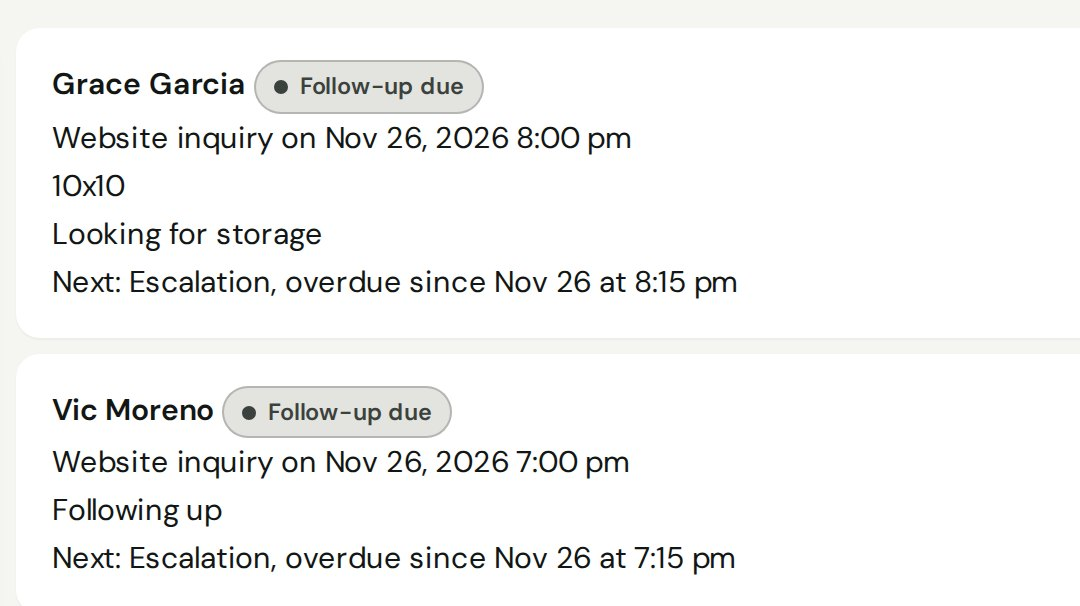
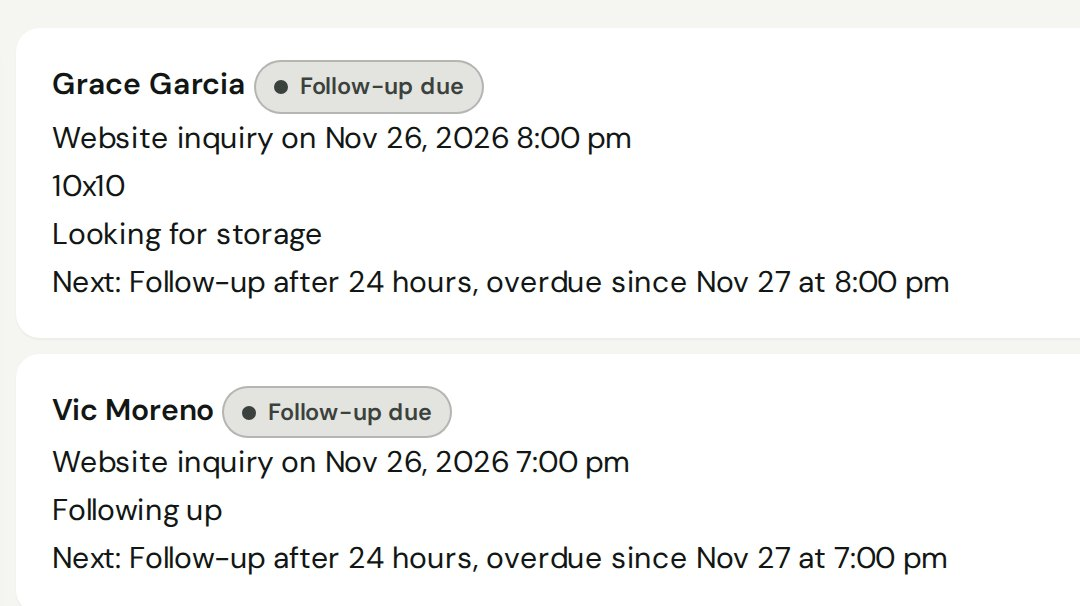
Add a research sign-in key and fix the sign-in card lines (#156)
- With DESK_RESEARCH_KEY set, /sign-in/pass/<key> starts the same session the sign-in form starts, then goes to Home. It is limited per address, like the form. Unset, or with a wrong key, the address answers 404. The form's last step shares the session code with it.
- Sign-in card: the heading, the line under it and the closing line are centred beside the centred note; the fields stay left. The card is wider, so each line fits on one line from laptop width up. The bot check gets a field's gap and the fields' width. On a phone the card no longer sits 8 px off centre.
- Overview: "Tilden can correct a charge, not just flag it." sits on one line instead of splitting in the middle. In "When it's your call", the slip beside Tilden holds its sentence on one line, and the cards take the width the left column left empty.
- Overview screens retaken after the stylesheet changes.

Why

A research browser cannot use the sign-in form: it hides any page that holds a filled-in password, and Cloudflare's check refuses it. The sign-in card and two Overview lines left half their width empty or mixed left and centred text.

Changed region(s): [[0.1222, 0.8911, 0.8861, 0.9505], [0.1222, 0.4455, 0.8861, 0.505]]

diff --git a/desk/static/staddle.css b/desk/static/staddle.css
@@ -1740,7 +1740,7 @@ body.ov.pub .ov-shot img { border-radius: 10px; display: block; width: 100%; hei
 
 /* Sign-in: one white card on the paper, the same fields and button as the desk */
 body.si.pub .sign-in { min-height: calc(100vh - 220px); display: grid; place-items: center; padding: 48px 0; }
-body.si.pub .sign-in-card { width: min(100%, 28rem); background: #fff; border: 1px solid var(--rule); border-radius: 16px; padding: 32px; box-shadow: 0 2px 4px rgba(14, 21, 18, .04), 0 18px 44px rgba(14, 21, 18, .08); }
+body.si.pub .sign-in-card { width: min(100%, 32rem); background: #fff; border: 1px solid var(--rule); border-radius: 16px; padding: 32px; box-shadow: 0 2px 4px rgba(14, 21, 18, .04), 0 18px 44px rgba(14, 21, 18, .08); }
 body.si.pub .sign-in-card h1 { font-size: 1.875rem; line-height: 1.15; margin: 0; }
 body.si.pub .sign-in-card .muted { color: var(--ink-3); }
 body.si.pub .sign-in-card form { display: grid; gap: 6px; margin-top: 20px; }
@@ -1753,9 +1753,15 @@ body.si.pub .demo-login { margin-top: 14px; padding: 10px 12px; border-radius: 8
 }
 body.ov.pub .ov-hero h1 > span { display: block; }      /* two lines, the second in green */
 body.si.pub .sign-in { padding-inline: 16px; box-sizing: border-box; }
-body.si.pub .sign-in-card { text-align: left; }
+body.si.pub .sign-in-card { text-align: center; box-sizing: border-box; }
 body.si.pub .sign-in-card p { max-width: none; margin-inline: 0; text-wrap: pretty; }
-body.si.pub .sign-in-card h1 { text-align: left; }
+body.si.pub .sign-in-card h1 { text-align: center; }
+body.si.pub .sign-in-card form { text-align: left; }
+/* the bot check gets the same gap as a field and the full width of the fields; on a phone the card's padding shrinks so the
+   check's 300 px minimum still fits and the card stays centred */
+body.si.pub .sign-in-card .cf-turnstile { margin-top: 14px; }
+body.si.pub .sign-in-card .cf-turnstile iframe { width: 100% !important; }
+@media (max-width: 30rem) { body.si.pub .sign-in-card { padding: 24px 20px; } }
 /* round 7: the shot starts higher, the phone headline is smaller, the rise is short with no visible bounce */
 body.ov.pub .ov-hero { padding-top: 48px; }
 body.ov.pub .ov-hero h1 { margin-top: 20px; }
@@ -1986,9 +1992,12 @@ body.ov.pub .feature h2 { font-size: clamp(2.125rem, 2.6vw, 3rem); line-height: 
 
 /* ---- One large statement after the bento: the first sentence in ink, the rest muted, as the premium product pages set their promise ---- */
 body.ov.pub .ov-statement { padding: 112px 0; }
-body.ov.pub .ov-statement-wrap { max-width: 56rem; text-align: center; }
+body.ov.pub .ov-statement-wrap { max-width: 68rem; text-align: center; }
+/* the handoff section's slip holds its one sentence on one line beside Tilden, and the two columns share the width evenly */
+body.ov.pub .ov-stops .spot-say { max-width: 26em; text-wrap: pretty; }
+@media (min-width: 60rem) { body.ov.pub .ov-stops .wrap { grid-template-columns: max-content minmax(0, 1fr); } }
 body.ov.pub .ov-statement .spot { justify-content: center; margin: 0 auto 28px; }
-body.ov.pub .ov-say { margin: 0; font-family: var(--display); font-size: clamp(2rem, 2.6vw, 3rem); font-weight: 600; line-height: 1.13; letter-spacing: -0.03em; color: var(--ink); text-wrap: balance; }
+body.ov.pub .ov-say { margin: 0; font-family: var(--display); font-size: clamp(2rem, 2.6vw, 3rem); font-weight: 600; line-height: 1.13; letter-spacing: -0.03em; color: var(--ink); text-wrap: pretty; }
 body.ov.pub .ov-say-more { max-width: 42rem; margin: 24px auto 0; font-size: 1.1875rem; line-height: 1.53; color: #53615A; text-wrap: pretty; }
 body.ov.pub .ov-say-a { color: var(--ink); }
 body.ov.pub .ov-say-b { color: color-mix(in srgb, var(--ink) 42%, var(--paper)); }

diff --git a/desk/fms.py b/desk/fms.py
@@ -110,7 +110,7 @@ SIDE = (("Facility", (("home", "Home", "house"), ("sitemap", "Site map", "map"),
 # the only addresses that answer without a session; tests/test_fms.py walks every route against this list. The card processor's
 # webhook is the one write among them: the processor calls it, no session exists, its signature is the check, and without a signing
 # secret it answers 503 (desk/stripe_hook.py)
-PUBLIC = {"/", "/film", "/sign-in", "/sign-out", "/static", "/health/live", "/health/ready", "/openapi.json", "/docs", "/docs/oauth2-redirect", "/redoc",
+PUBLIC = {"/", "/film", "/sign-in", "/sign-in/pass/{key}", "/sign-out", "/static", "/health/live", "/health/ready", "/openapi.json", "/docs", "/docs/oauth2-redirect", "/redoc",
           "/webhooks/stripe"}
 STAFF_WORDS = {"remove_disputed_fee": "Removed the fee", "keep_under_review": "Kept under review"}
 # renting's staff commands as the Today list words them; an attempt the gate refused reads "Asked to ..."
@@ -1118,6 +1118,20 @@ def mount(app, fd: FrontDesk, settings, guard, from_elsewhere, session_factory, 
                 return refuse("The quick check is not answering. Wait a minute, then reload the page.", 503)
             if not passed:
                 return refuse("The quick check did not pass. Reload the page and try again.", 403)
+        return start_session(request)
+
+    # the research browser's way in (settings.research_key): no form and no bot check, still limited per address like the form.
+    # A wrong key answers like an address that does not exist
+    @app.get("/sign-in/pass/{key}", include_in_schema=False)
+    def sign_in_with_key(request: Request, key: str):
+        want = settings.research_key
+        if not want or not hmac.compare_digest(key.encode(), want.encode()):
+            raise HTTPException(404, "Not Found")
+        if guard.on and not guard.allow(spend.address_of(request)):
+            raise HTTPException(429, "Too many sign-ins from here. Wait a minute, then try again.")
+        return start_session(request)
+
+    def start_session(request: Request):
         response = RedirectResponse("/home", status_code=303)
         response.set_cookie(SESSION, guard.cookie("session"), max_age=LIFETIME, httponly=True, samesite="lax", secure=spend.is_https(request))
         return response

diff --git a/desk/config.py b/desk/config.py
@@ -51,6 +51,9 @@ class Settings:
     chat_model: str = "claude-haiku-5-5"
     # resolving a payment held for staff needs this second token as well; without it the route is closed
     staff_token: str | None = None
+    # a research browser that can neither pass the bot check nor fill a password box signs in at /sign-in/pass/<this key>;
+    # unset, that address does not exist
+    research_key: str | None = None
     # the hosted preview: anyone may read without a token; every change still needs the operator token
     public_view: bool = False
     # build the synthetic preview world at startup when the database is empty (desk/demo.py)
@@ -100,6 +103,7 @@ class Settings:
             allow_without_token=os.environ.get("DESK_ALLOW_WITHOUT_TOKEN") == "1",
             chat_model=_chat_model(os.environ.get("DESK_CHAT_MODEL")),
             staff_token=os.environ.get("DESK_STAFF_TOKEN") or None,
+            research_key=os.environ.get("DESK_RESEARCH_KEY") or None,
             public_view=os.environ.get("DESK_PUBLIC_VIEW") == "1",
             demo_seed=os.environ.get("DESK_DEMO_SEED") == "1",
             run_id=os.environ.get("DESK_RUN_ID", "local"),

diff --git a/tests/test_fms.py b/tests/test_fms.py
@@ -115,6 +115,16 @@ def test_the_demo_login_signs_in_and_out_and_a_wrong_one_is_refused(fms_url, sim
         assert c.get("/home", follow_redirects=False).headers["location"] == "/sign-in"
 
 
+def test_a_research_key_signs_in_without_the_form_and_a_wrong_one_is_no_page(fms_url, sim):
+    with TestClient(site(fms_url, research_key="k" * 32)) as c:
+        assert c.get("/sign-in/pass/" + "x" * 32, follow_redirects=False).status_code == 404
+        r = c.get("/sign-in/pass/" + "k" * 32, follow_redirects=False)
+        assert (r.status_code, r.headers["location"]) == (303, "/home") and SESSION in r.cookies
+        assert "Dana Reyes" in c.get("/home").text
+    with TestClient(site(fms_url)) as c:      # no key set: the address does not exist
+        assert c.get("/sign-in/pass/" + "k" * 32, follow_redirects=False).status_code == 404
+
+
 def test_the_screens_show_the_generated_year_in_words(fms_url, sim):
     with sign_in(site(fms_url)) as c:
         pages = {p: c.get(p) for p in PAGES}
